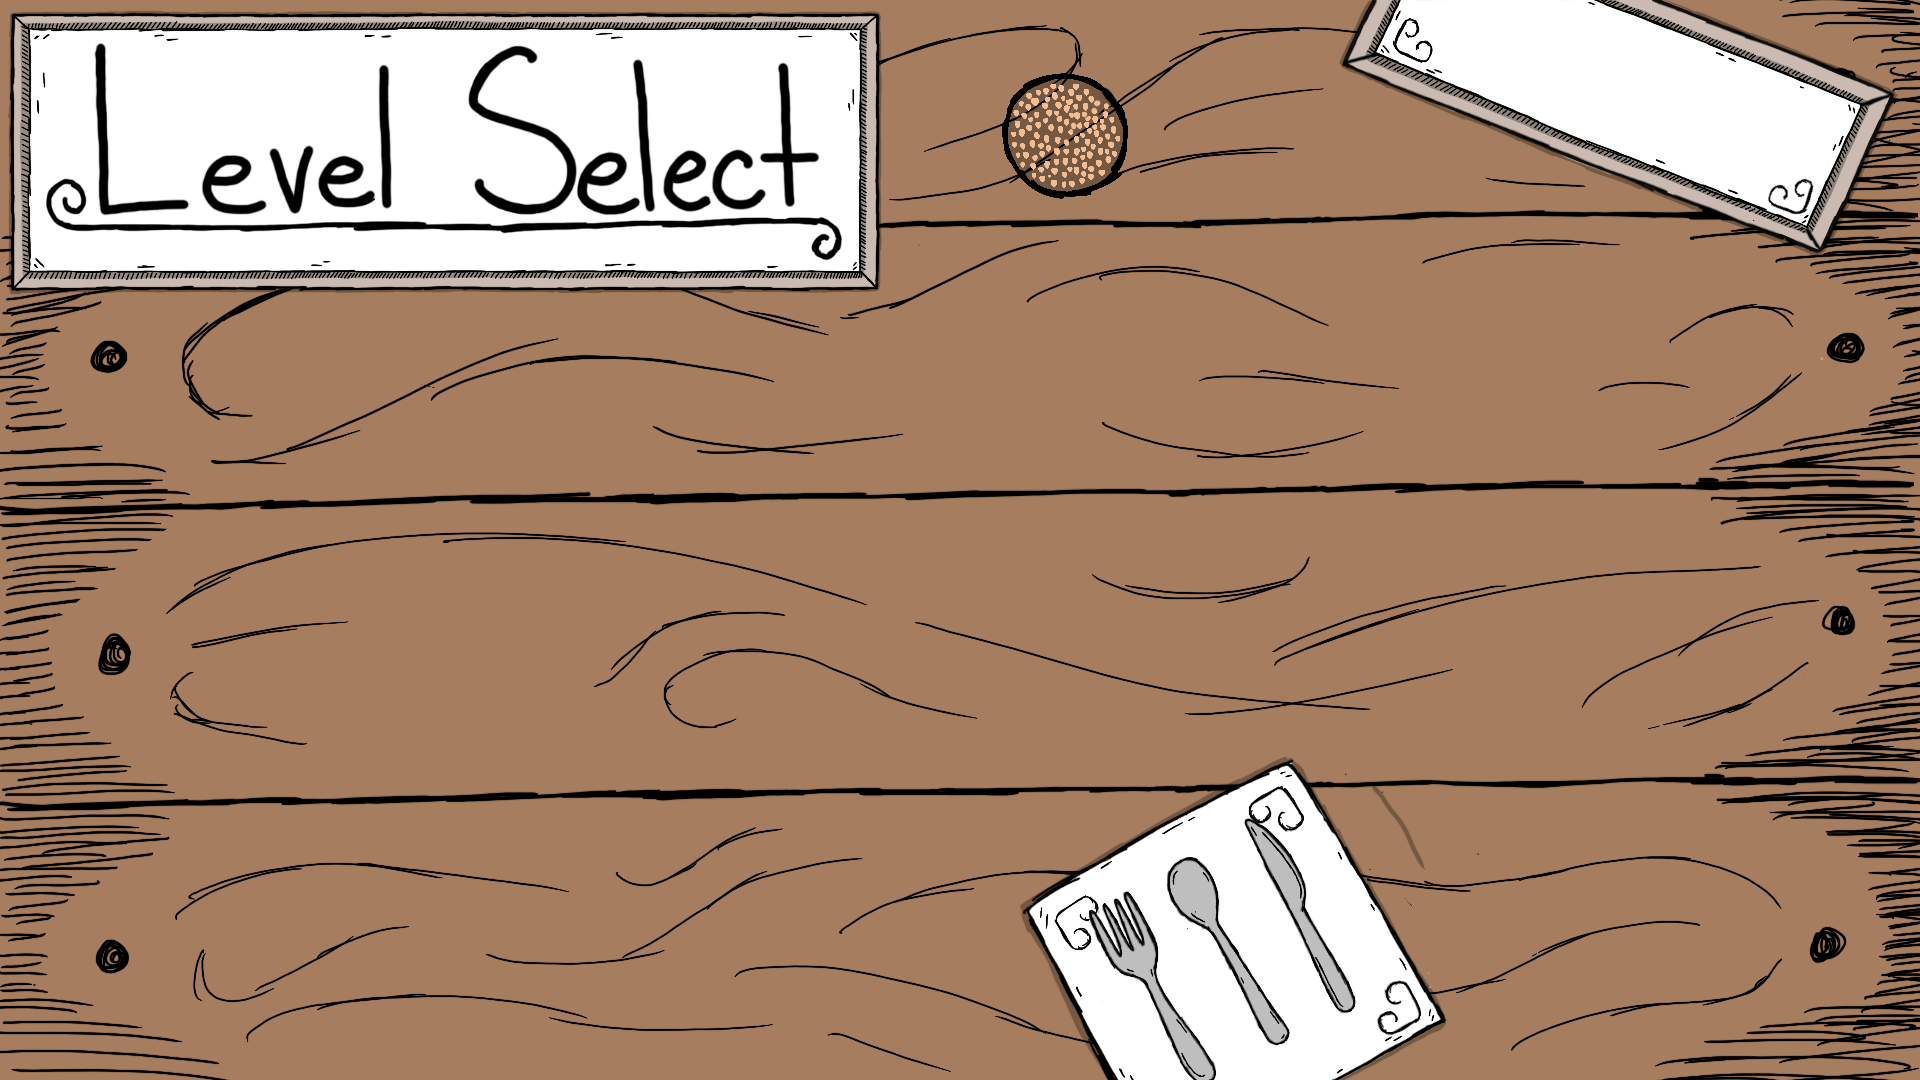
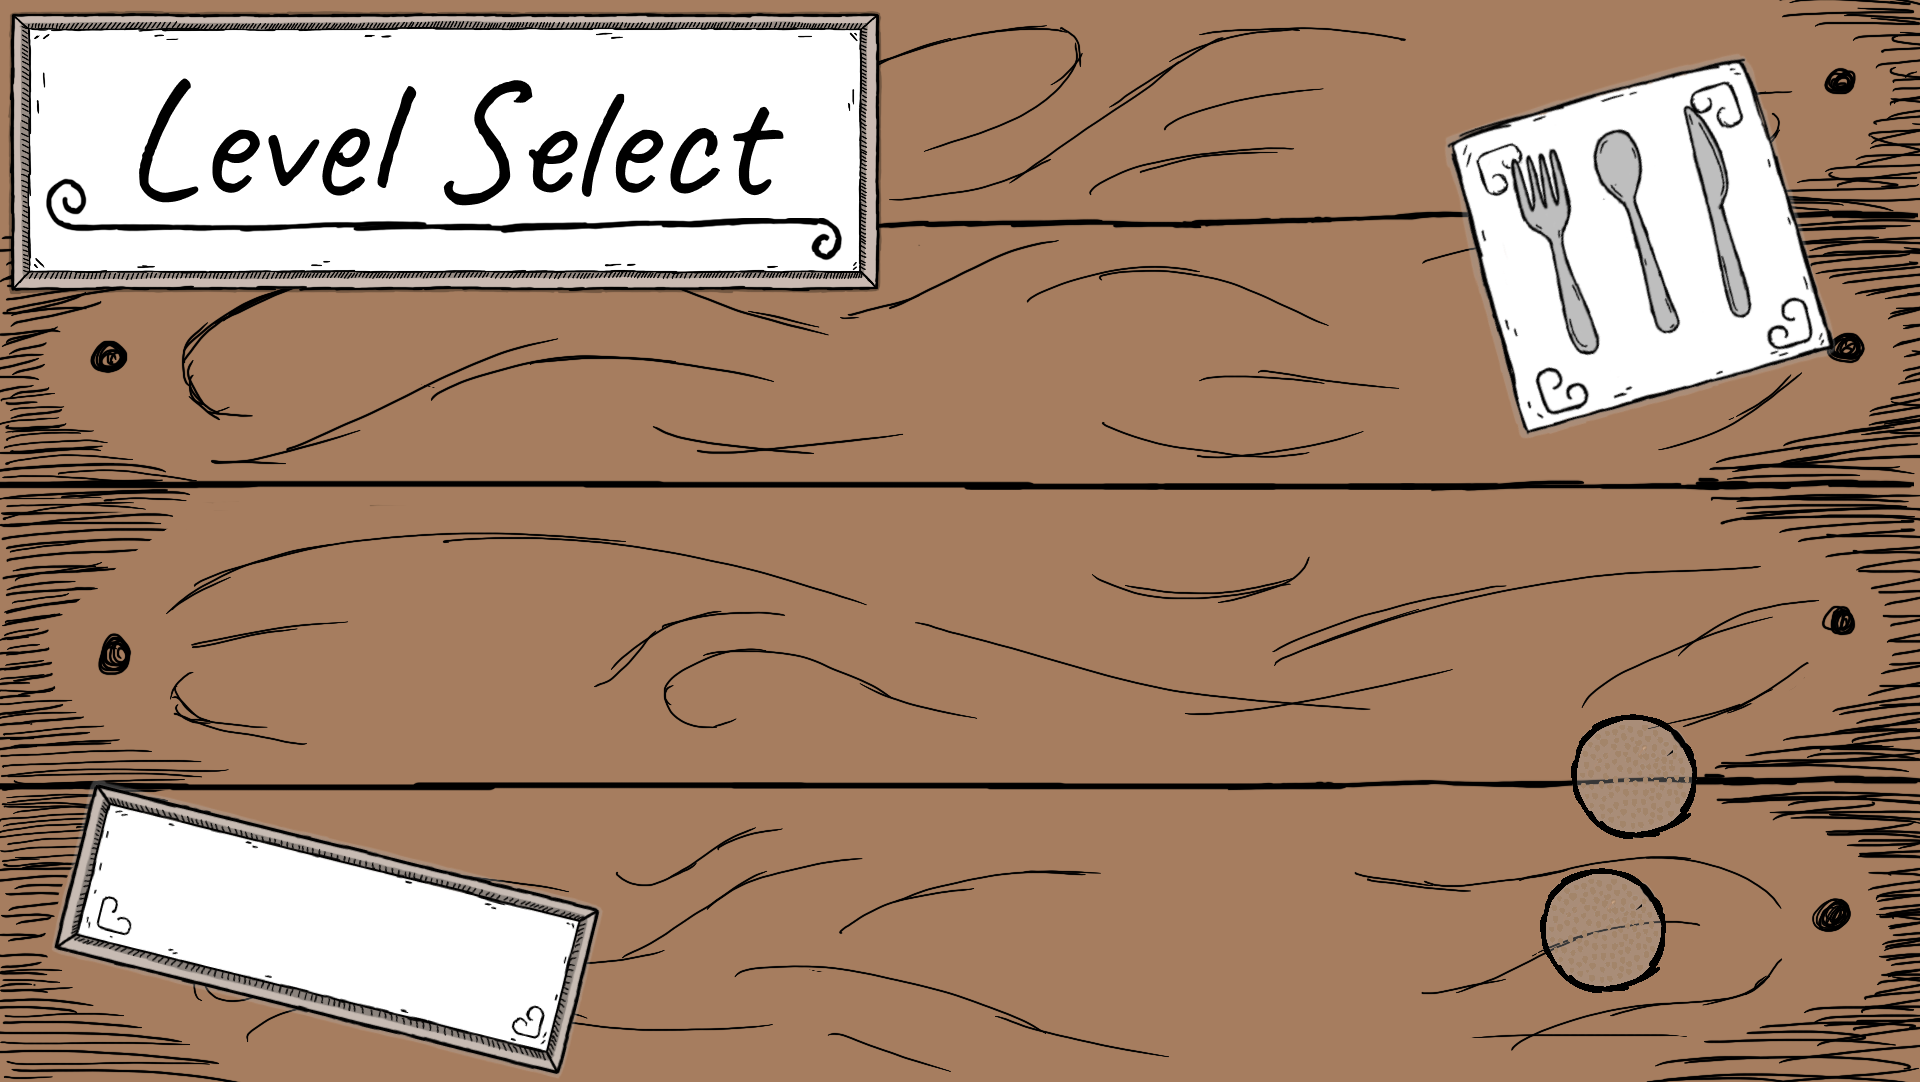
trying to add in some animations

diff --git a/core/src/com/raccoon/mygame/controllers/AnimationController.java b/core/src/com/raccoon/mygame/controllers/AnimationController.java
@@ -24,6 +24,9 @@ public class AnimationController {
     private final FilmStrip playerServe;
     private final FilmStrip playerServeIdle;
     private final FilmStrip playerCook;
+    private final FilmStrip playerChop;
+    private final FilmStrip playerSneak;
+    private final FilmStrip playerKickedOut;
 
     private final FilmStrip goatWalk;
     private final FilmStrip goatIdle;
@@ -45,10 +48,17 @@ public class AnimationController {
     private final FilmStrip gooseWalkUp;
     private final FilmStrip gooseIdle;
     private final FilmStrip gooseChase;
+    private final FilmStrip gooseCatch;
+    private final FilmStrip gooseSleep;
+    private final FilmStrip gooseSleepIdle;
+    private final FilmStrip gooseWake;
 
     private final FilmStrip ventIn;
     private final FilmStrip ventOut;
     private final FilmStrip ventIdle;
+
+//    private final FilmStrip potSizzle;
+//    private final FilmStrip panSizzle;
 
 
     private InputController input;
@@ -66,6 +76,9 @@ public class AnimationController {
         playerServe = new FilmStrip(new Texture("720/rockodish.png"), 1, 4, 4);
         playerServeIdle = new FilmStrip(new Texture("720/rockodishidle.png"),1,1,1);
         playerCook = new FilmStrip(new Texture("720/rockocook.png"),1,5,5);
+        playerChop = new FilmStrip(new Texture("720/rockochop.png"), 2,5,9);
+        playerKickedOut = new FilmStrip(new Texture("720/rockokickedout.png"),4,5,20);
+        playerSneak = new FilmStrip(new Texture("720/rockosneak.png"),1,8,8);
 
         goatWalk = new FilmStrip(new Texture("720/goatwalk.png"), 1, 4, 4);
         goatIdle = new FilmStrip(new Texture("720/goatsit.png"), 1,1,1);
@@ -87,10 +100,15 @@ public class AnimationController {
         gooseWalkUp = new FilmStrip(new Texture("720/goosewalkup.png"),1,6,6);
         gooseIdle = new FilmStrip(new Texture("720/gooseidle.png"),1,1,1);
         gooseChase = new FilmStrip(new Texture("720/goosechase.png"),1,6,6);
+        gooseCatch = new FilmStrip(new Texture("720/rockocaught.png"),1,4,4);
+        gooseSleepIdle = new FilmStrip(new Texture("720/goosesleepidle.png"),1,1,1);
+        gooseSleep = new FilmStrip(new Texture("720/goosesleep.png"),1,7,7);
+        gooseWake = new FilmStrip(new Texture("720/goosewake.png"),1,7,7);
 
         ventIdle = new FilmStrip(new Texture("720/vent.png"),1,1,1);
         ventIn = new FilmStrip(new Texture("720/rockoventin.png"),3,4,12);
         ventOut = new FilmStrip(new Texture("720/rockoventout.png"),4,3,12);
+
     }
 
     //all instances of handleAnimation must be called in the update loop of a given WorldController.
@@ -104,6 +122,11 @@ public class AnimationController {
      * */
     public void handleAnimation(Player o, float delta){
         //This is pretty self-explanatory.
+        if(o.playerIsCooking && o.potCookingIn == 2){
+            o.setFilmStrip(playerChop);
+            o.updateAnimation(delta);
+            return;
+        }
         if(o.playerIsCooking){
             o.setFilmStrip(playerCook);
             //if you are planning on returning, you must make sure you advance the animation beforehand
@@ -122,7 +145,12 @@ public class AnimationController {
             o.updateAnimation(delta);
             return;
         }
-        if(input.getYMovement()!=0 || input.getXMovement()!=0){
+
+        System.out.println(o.current);
+        if((input.getYMovement()!=0 || input.getXMovement()!=0) && o.current == 1){
+            o.setFilmStrip(playerSneak);
+        }
+        else if(input.getYMovement()!=0 || input.getXMovement()!=0){
             o.setFilmStrip(playerWalk);
         }
         else{

diff --git a/core/src/com/raccoon/mygame/objects/CookingStationObject.java b/core/src/com/raccoon/mygame/objects/CookingStationObject.java
@@ -7,6 +7,8 @@ import com.raccoon.mygame.controllers.Worldtimer;
 import com.raccoon.mygame.models.CookingInventory;
 import com.raccoon.mygame.models.Inventory;
 import com.raccoon.mygame.models.Player;
+import com.raccoon.mygame.models.Pot;
+import com.raccoon.mygame.util.FilmStrip;
 import com.raccoon.mygame.view.GameCanvas;
 import java.awt.Canvas;
 import java.util.Arrays;
@@ -22,13 +24,17 @@ public class CookingStationObject extends NormalObstacle{
     public int interacting_with;
     public Worldtimer timer;
     public int maxTime;
-    private Texture wok_pic =new Texture("wok.png");
-    private Texture pot_pic = new Texture("pot.png");
-    private Texture chop_pic = new Texture("cutting_board.png");
+    private FilmStrip wok_pic =new FilmStrip(new Texture("wok.png"),1,1,1);
+    private FilmStrip pot_pic = new FilmStrip(new Texture("pot.png"),1,1,1);
+    private FilmStrip chop_pic = new FilmStrip(new Texture("cutting_board.png"),1,1,1);
     public float drawox=0;
     public float drawoy=0;
     public float x;
     public float y;
+
+    private Pot wok;
+    private Pot pott;
+    private Pot chop;
 
 //    private Expression spaceIcon;
 
@@ -46,6 +52,12 @@ public class CookingStationObject extends NormalObstacle{
         this.station_type = station_type;
         this.x = x;
         this.y = y;
+
+        wok = new Pot(0,wok_pic, 40, 30, this.x * this.drawScale.x-28,this.y * this.drawScale.y,1f,1f);
+        pott = new Pot(1, pot_pic,50, 5,
+                this.x*this.drawScale.x,this.y*this.drawScale.y, 1f, 1f);
+        chop = new Pot(2,chop_pic, 35, 50,
+                this.x * this.drawScale.x, this.y * this.drawScale.y, 1f, 1f);
 //        spaceIcon = new Expression("space",x,y);
 
     }
@@ -61,16 +73,19 @@ public class CookingStationObject extends NormalObstacle{
     public void draw() {
         super.drawWithOffset(drawox, drawoy);
         if(station_type == 0) {
-            canvas.draw(wok_pic, Color.WHITE, 40, 30,
-                    this.getX() * this.getDrawScale().x-28, this.getY() * this.getDrawScale().y,
-                    0.0f, 1f, 1f);
+//            canvas.draw(wok_pic, Color.WHITE, 40, 30,
+//                    this.getX() * this.getDrawScale().x-28, this.getY() * this.getDrawScale().y,
+//                    0.0f, 1f, 1f);
+            wok.draw(canvas);
         }else if(station_type == 1){
-            canvas.draw(pot_pic, Color.WHITE, 50, 5,
-                    this.getX()*this.getDrawScale().x,this.getY()*this.getDrawScale().y, 0.0f, 1f, 1f);
+//            canvas.draw(pot_pic, Color.WHITE, 50, 5,
+//                    this.getX()*this.getDrawScale().x,this.getY()*this.getDrawScale().y, 0.0f, 1f, 1f);
+            pott.draw(canvas);
         } else {
-            canvas.draw(chop_pic, Color.WHITE, 35, 50,
-                    this.getX() * this.getDrawScale().x, this.getY() * this.getDrawScale().y,
-                    0.0f, 1f, 1f);
+//            canvas.draw(chop_pic, Color.WHITE, 35, 50,
+//                    this.getX() * this.getDrawScale().x, this.getY() * this.getDrawScale().y,
+//                    0.0f, 1f, 1f);
+            chop.draw(canvas);
         }
         if(timer != null){
             timer.drawNoFormat(this.getX()*this.drawScale.x, this.getY()*this.drawScale.y);
@@ -93,5 +108,12 @@ public class CookingStationObject extends NormalObstacle{
         return this.maxTime;
     }
 
-    
+    /**
+     * 0 - wok
+     * 1 - pot
+     * 2 - board
+     * */
+    public int getStationType() {
+        return station_type;
+    }
 }

diff --git a/core/src/com/raccoon/mygame/models/Pot.java b/core/src/com/raccoon/mygame/models/Pot.java
@@ -1,0 +1,69 @@
+package com.raccoon.mygame.models;
+
+import com.badlogic.gdx.graphics.Color;
+import com.raccoon.mygame.util.FilmStrip;
+import com.raccoon.mygame.view.GameCanvas;
+
+/**
+ * I have to make this just to animate pots :middle-finger:
+ * */
+public class Pot {
+
+    /**
+     * The number of animation frames in our filmstrip
+     * This is just a default, and gets changed upon setting a new filmstrip.
+     * */
+    protected int   NUM_ANIM_FRAMES = 1;
+
+    /**
+     * Current animation frame.
+     * Updated with deltaTime
+     * */
+    protected float animeframe = 0;
+
+    /**
+     * The speed of our animation at 60 fps
+     * */
+    protected float ANIMATION_SPEED = 0.15f;
+
+    private int type;
+    private FilmStrip sprite;
+    private float x;
+    private float y;
+    private float ox;
+    private float oy;
+    private float sx;
+    private float sy;
+
+    public Pot(int type, FilmStrip sprite, float x, float y, float ox, float oy, float sx, float sy){
+        this.type = type;
+        this.sprite = sprite;
+        this.x = x;
+        this.y = y;
+        this.ox = ox;
+        this.oy = oy;
+        this.sx = sx;
+        this.sy = sy;
+    }
+    public void draw(GameCanvas canvas){
+        canvas.draw(this.sprite, Color.WHITE, this.x, this.y, this.ox, this.oy, this.sx, this.sy);
+    }
+
+    public void setFilmStrip(FilmStrip value) {
+        NUM_ANIM_FRAMES = value.getSize();
+        sprite = value;
+        //set to 0th frame if the current animation frame is larger that the amount of frames...
+        //of the filmstrip we wish to set to.
+        if(animeframe > NUM_ANIM_FRAMES)
+            animeframe = 0;
+        //no float frames.
+        sprite.setFrame((int)animeframe);
+    }
+    public void updateAnimation(float delta){
+        // Increase animation frame
+        animeframe += ANIMATION_SPEED;
+        if (animeframe >= NUM_ANIM_FRAMES) {
+            animeframe -= NUM_ANIM_FRAMES;
+        }
+    }
+}

diff --git a/core/src/com/raccoon/mygame/controllers/LevelSelectController.java b/core/src/com/raccoon/mygame/controllers/LevelSelectController.java
@@ -17,11 +17,12 @@ import java.awt.*;
  * */
 public class LevelSelectController extends WorldController{
     //the background background
-    private Texture background = new Texture("menu/levelselectbackground.png");
+    private final Texture background = new Texture("menu/levelselectbackground.png");
+    private final Texture backgroundBlank = new Texture("menu/levelselectbackgroundblank.png");
     //canvas to draw onto
     private GameCanvas canvas;
     //input controller to use
-    private InputController input;
+    private final InputController input;
 
     private final ScrollController scroller = new ScrollController();
 
@@ -141,15 +142,15 @@ public class LevelSelectController extends WorldController{
         //draw the background background. Might have to change this later.
         canvas.draw(background, Color.WHITE, 0, 0,
                 0, 0, 0.0f, 0.7f, 0.7f);
-        canvas.draw(background, Color.WHITE, 0, 0,
+        canvas.draw(backgroundBlank, Color.WHITE, 0, 0,
                 0, -720, 0.0f, 0.7f, 0.7f);
-        canvas.draw(background, Color.WHITE, 0, 0,
+        canvas.draw(backgroundBlank, Color.WHITE, 0, 0,
                 0, -1440, 0.0f, 0.7f, 0.7f);
-        canvas.draw(background, Color.WHITE, 0, 0,
+        canvas.draw(backgroundBlank, Color.WHITE, 0, 0,
                 0, -2160, 0.0f, 0.7f, 0.7f);
-        canvas.draw(background, Color.WHITE, 0, 0,
+        canvas.draw(backgroundBlank, Color.WHITE, 0, 0,
                 0, -2880, 0.0f, 0.7f, 0.7f);
-        canvas.draw(background, Color.WHITE, 0, 0,
+        canvas.draw(backgroundBlank, Color.WHITE, 0, 0,
                 0, -3600, 0.0f, 0.7f, 0.7f);
 
         //for every button in this scene (excluding those within a modal)

diff --git a/core/src/com/raccoon/mygame/controllers/RestaurantController.java b/core/src/com/raccoon/mygame/controllers/RestaurantController.java
@@ -59,6 +59,8 @@ public class RestaurantController extends WorldController implements ContactList
     public int angry;
     public int total;
 
+    public int current = -3;
+
 
     //Default filmstrips.
     //We need these because the constructors of these objects require a texture (Filmstrip)
@@ -296,6 +298,7 @@ public class RestaurantController extends WorldController implements ContactList
         //We will use this deltatime to update animation frames
         float delta = Gdx.graphics.getDeltaTime();
         player.update(delta);
+        player.current = this.current;
 
         if ((t.getTime() == 178 || t.getTime() == 176 ||t.getTime() == 130|| t.getTime() == 128 || t.getTime() ==126 || t.getTime() ==80 || t.getTime() == 78 || t.getTime() == 76) && !t.action_round){
             Customer customer1 = new Customer(0f, 7.5f, 1f, 0.7f, goatIdle, world, canvas, tables, 2);
@@ -553,11 +556,13 @@ public class RestaurantController extends WorldController implements ContactList
             CookingStationObject obj = (CookingStationObject) body2.getUserData();
             obj.interacting = true;
             obj.interacting_with = obj.id;
+            ((Player) body1.getUserData()).setPotCookingIn(obj.getStationType());
         }
         else if (body1.getUserData() instanceof CookingStationObject && body2.getUserData() instanceof Player){
             CookingStationObject obj = (CookingStationObject) body1.getUserData();
             obj.interacting = true;
             obj.interacting_with = obj.id;
+            ((Player) body1.getUserData()).setPotCookingIn(obj.getStationType());
         }
 
 

diff --git a/core/src/com/raccoon/mygame/models/Player.java b/core/src/com/raccoon/mygame/models/Player.java
@@ -42,16 +42,17 @@ public class Player extends BoxObstacle {
     //-1 is right
     private int direction = -1;
 
-
+    public int current = -3;
 
     private float height;
     private float width;
 
     /**
-     * Both of these are used for animation state
+     * All of these are used for animation state
      * */
     public boolean playerIsCooking = false;
     public boolean playerIsVenting = false;
+    public int potCookingIn = -1;
 
     private Shadow shadow;
 
@@ -209,5 +210,7 @@ public class Player extends BoxObstacle {
     public void clearInv() {
         inventory.clearAll();
     }
-
+    public void setPotCookingIn(int pot){
+        this.potCookingIn = pot;
+    }
 }

diff --git a/core/src/com/raccoon/mygame/controllers/StoreController.java b/core/src/com/raccoon/mygame/controllers/StoreController.java
@@ -64,6 +64,9 @@ public class StoreController extends WorldController implements ContactListener 
 
     private AnimationController animator;
 
+    public int current = -3;
+
+
 
 
 //    public boolean totalReset = false;
@@ -227,6 +230,7 @@ public class StoreController extends WorldController implements ContactListener 
 //        }
 
         float delta = Gdx.graphics.getDeltaTime();
+        player.current = this.current;
         if (playerGuardCollide) {
             player.setPosition(0, 0);
             player.clearInv();

diff --git a/core/src/com/raccoon/mygame/game/GDXRoot.java b/core/src/com/raccoon/mygame/game/GDXRoot.java
@@ -208,6 +208,8 @@ public class GDXRoot extends Game implements ScreenListener {
 
 
     public void update() {
+        store.current = this.current;
+        restaurant.current = this.current;
         input.readInput();
         if(current == -2){
             mainmenu.update();
@@ -223,7 +225,6 @@ public class GDXRoot extends Game implements ScreenListener {
             return;
         }
         if(current == -1) {
-
             levelselect.update();
             w.pauseTimer();
             restaurant.setActive(false);
